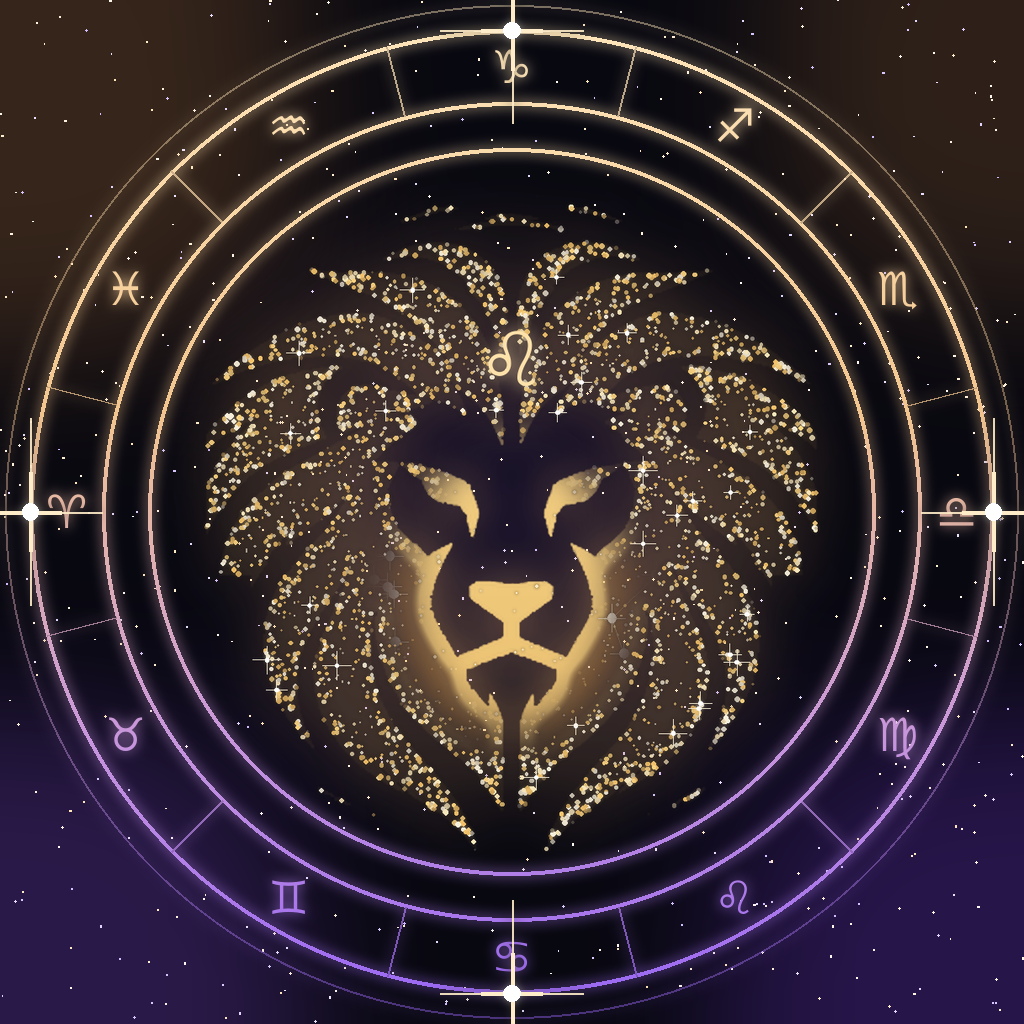
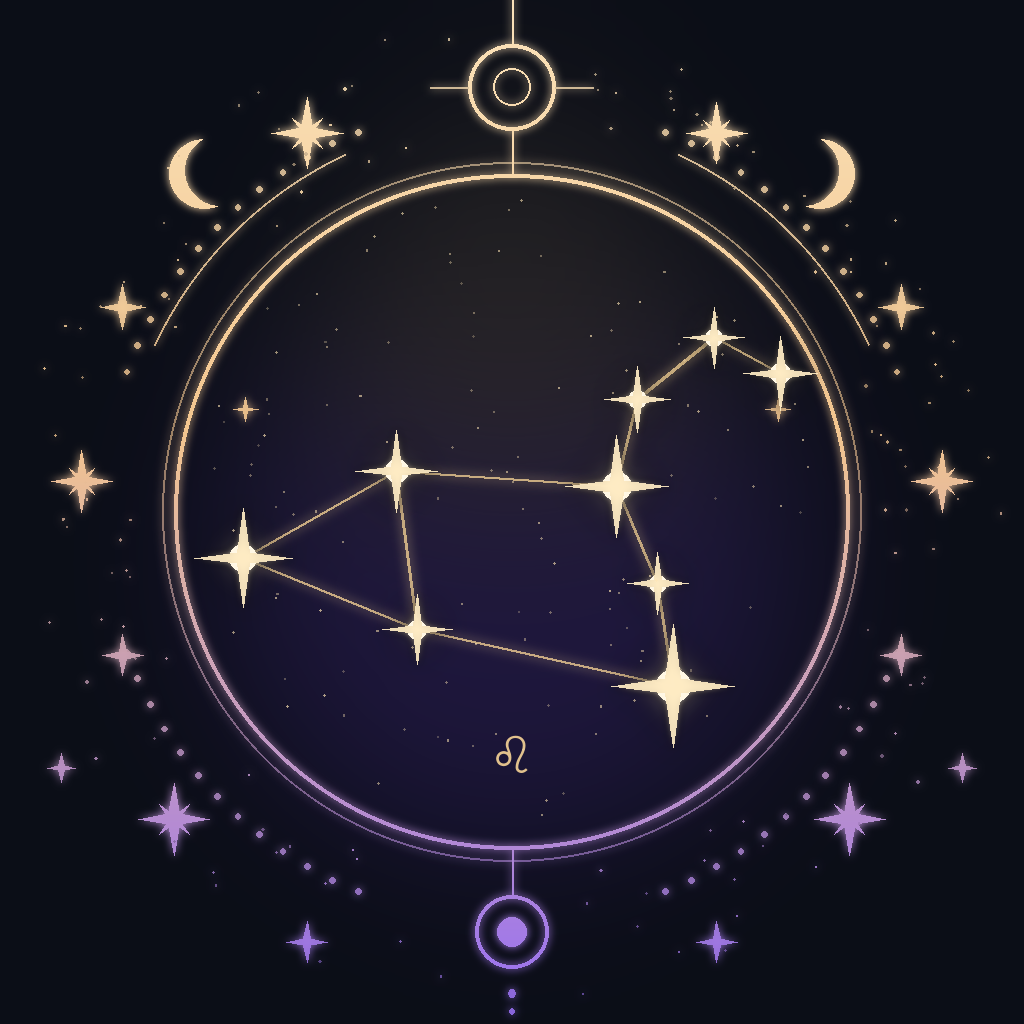
Leon Astral: ícone com a constelação de Leão em arte celeste (v11)
Claude-Session: https://claude.ai/code/session_015QtkNiigeZZHgyGsT8Acyk

diff --git a/leon-astral-app/tools/make_leo.py b/leon-astral-app/tools/make_leo.py
@@ -1,0 +1,110 @@
+"""Ícone Leon Astral v11: arte celeste em traço fino (referência do Carlos) com a constelação de Leão no lugar do leão.
+Regras: a constelação é só dourada; molduras e ornamentos em degradê dourado -> roxo."""
+from PIL import Image, ImageDraw, ImageFilter, ImageChops, ImageFont
+import math, random
+FONT='/usr/share/fonts/truetype/dejavu/DejaVuSans.ttf'
+
+def gradient(S, c_top=(251,227,187), c_mid=(243,198,143), c_bot=(150,110,245)):
+    g=Image.new('RGB',(S,S)); p=g.load()
+    for y in range(S):
+        t=y/S
+        if t<.42: k=t/.42; c=tuple(int(c_top[i]+(c_mid[i]-c_top[i])*k) for i in range(3))
+        else: k=(t-.42)/.58; c=tuple(int(c_mid[i]+(c_bot[i]-c_mid[i])*k) for i in range(3))
+        for x in range(S): p[x,y]=c
+    return g
+
+def sparkle(d, x, y, L, w, fill, thin=0.18):
+    # estrela de 4 pontas (losango alongado)
+    t=L*thin
+    d.polygon([(x,y-L),(x+t,y-t),(x+L,y),(x+t,y+t),(x,y+L),(x-t,y+t),(x-L,y),(x-t,y-t)],fill=fill)
+
+def star8(d,x,y,L,fill):
+    sparkle(d,x,y,L,0,fill,0.16)
+    l2=L*0.6; t=l2*0.16
+    d.polygon([(x-l2*.7,y-l2*.7),(x+t*.0,y-t*1.2),(x+l2*.7,y-l2*.7),(x+t*1.2,y),(x+l2*.7,y+l2*.7),(x,y+t*1.2),(x-l2*.7,y+l2*.7),(x-t*1.2,y)],fill=fill)
+
+def draw(S=1024, bg=True, seed=8):
+    W=S; cx=cy=S/2
+    img=Image.new('RGBA',(S,S),(11,14,23,255) if bg else (0,0,0,0))
+    if bg:
+        neb=Image.new('RGBA',(S,S),(0,0,0,0)); d=ImageDraw.Draw(neb)
+        d.ellipse((S*.15,S*.2,S*.85,S*.9),fill=(90,50,180,60)); d.ellipse((S*.3,S*.05,S*.7,S*.45),fill=(243,198,143,28))
+        img.alpha_composite(neb.filter(ImageFilter.GaussianBlur(S*.1)))
+    # ---------- ornamentos (máscara) em degradê dourado->roxo ----------
+    M=Image.new('L',(S,S),0); m=ImageDraw.Draw(M)
+    lw=max(2,int(S*.0042)); thin=max(1,int(S*.0022))
+    R=S*.33
+    m.ellipse((cx-R,cy-R,cx+R,cy+R),outline=255,width=lw)                 # círculo principal
+    m.ellipse((cx-R*1.035,cy-R*1.035,cx+R*1.035,cy+R*1.035),outline=150,width=thin)  # aro fino
+    # arcos pontilhados laterais
+    R2=S*.40
+    for ang in [a for a in range(200,341,4)]+[a for a in range(20,161,4)]:
+        if 70<ang<110 or 250<ang<290: continue
+        a=math.radians(ang); x=cx+R2*math.cos(a); y=cy+R2*math.sin(a); r=S*.0028
+        m.ellipse((x-r,y-r,x+r,y+r),fill=200)
+    # arcos contínuos finos (esq/dir)
+    m.arc((cx-S*.385,cy-S*.385,cx+S*.385,cy+S*.385),205,245,fill=210,width=thin)
+    m.arc((cx-S*.385,cy-S*.385,cx+S*.385,cy+S*.385),295,335,fill=210,width=thin)
+    # ornamento do topo: círculo duplo + haste até o círculo principal
+    ty=cy-R-S*.085; r1,r2=S*.042,S*.018
+    m.ellipse((cx-r1,ty-r1,cx+r1,ty+r1),outline=255,width=lw); m.ellipse((cx-r2,ty-r2,cx+r2,ty+r2),outline=255,width=thin)
+    m.line((cx,ty-r1-S*.05,cx,ty-r1),fill=255,width=thin); m.line((cx,ty+r1,cx,cy-R),fill=255,width=thin)
+    m.line((cx-S*.08,ty,cx-r1,ty),fill=200,width=thin); m.line((cx+r1,ty,cx+S*.08,ty),fill=200,width=thin)
+    # ornamento de baixo
+    by=cy+R+S*.08; m.ellipse((cx-r1*.85,by-r1*.85,cx+r1*.85,by+r1*.85),outline=255,width=lw); m.ellipse((cx-r2*.8,by-r2*.8,cx+r2*.8,by+r2*.8),fill=255)
+    m.line((cx,cy+R,cx,by-r1*.85),fill=255,width=thin)
+    for k in range(1,4):
+        y=by+r1+S*.018*k; r=S*.004*(1.2-k*.25); m.ellipse((cx-r,y-r,cx+r,y+r),fill=220)
+    # luas crescentes
+    for sx,flip in [(.2,1),(.8,-1)]:
+        x,y=S*sx,S*.17; rr=S*.034
+        m.ellipse((x-rr,y-rr,x+rr,y+rr),fill=255); m.ellipse((x-rr+flip*rr*.45,y-rr-rr*.1,x+rr+flip*rr*.45,y+rr-rr*.1),fill=0)
+    # estrelas decorativas ao redor
+    random.seed(seed)
+    deco=[(.30,.13,.035),(.70,.13,.03),(.12,.30,.022),(.88,.30,.022),(.08,.47,.03),(.92,.47,.03),(.12,.64,.02),(.88,.64,.02),
+          (.17,.80,.035),(.83,.80,.035),(.30,.92,.02),(.70,.92,.02),(.06,.75,.014),(.94,.75,.014),(.24,.40,.012),(.76,.40,.012)]
+    for x,y,L in deco:
+        if L>=.03: star8(m,S*x,S*y,S*L,255)
+        else: sparkle(m,S*x,S*y,S*L,0,230)
+    for _ in range(int(S*.14)):  # poeira estelar
+        a=random.random()*2*math.pi; rr=S*(.36+random.random()*.12); x=cx+rr*math.cos(a); y=cy+rr*math.sin(a)
+        if abs(x-cx)<S*.06 and (y<cy-R or y>cy+R): continue
+        r=random.choice([.6,.9,1.2])*S/1024; m.ellipse((x-r,y-r,x+r,y+r),fill=random.randint(120,230))
+    G=gradient(S)
+    orn=Image.merge('RGBA',(*G.split(),M))
+    img.alpha_composite(orn.filter(ImageFilter.GaussianBlur(S*.004))); img.alpha_composite(orn)
+    # ---------- constelação de Leão (dourada) ----------
+    P={'reg':(.665,.640),'eta':(.650,.540),'alg':(.610,.445),'zet':(.630,.360),'mu':(.705,.300),'eps':(.770,.335),
+       'zos':(.395,.430),'the':(.415,.585),'den':(.245,.515)}
+    # centraliza a constelação no círculo
+    xs=[v[0] for v in P.values()]; ys=[v[1] for v in P.values()]
+    ox=.5-(min(xs)+max(xs))/2; oy=.5-(min(ys)+max(ys))/2
+    P={k:((x+ox)*S,(y+oy)*S) for k,(x,y) in P.items()}
+    lines=[('reg','eta'),('eta','alg'),('alg','zet'),('zet','mu'),('mu','eps'),('alg','zos'),('zos','den'),('den','the'),('the','zos'),('the','reg')]
+    L=Image.new('L',(S,S),0); ld=ImageDraw.Draw(L)
+    for a,b in lines: ld.line((P[a],P[b]),fill=255,width=max(2,int(S*.0035)))
+    gold=Image.new('RGB',(S,S),(247,212,150))
+    ln=Image.merge('RGBA',(*gold.split(),Image.eval(L,lambda v:int(v*.75))))
+    img.alpha_composite(ln.filter(ImageFilter.GaussianBlur(S*.005))); img.alpha_composite(ln)
+    st=Image.new('RGBA',(S,S),(0,0,0,0)); sd=ImageDraw.Draw(st)
+    size={'reg':1.5,'den':1.2,'alg':1.25,'zos':1.0,'the':.85,'eta':.75,'zet':.8,'mu':.75,'eps':.9}
+    for k,(x,y) in P.items():
+        s=size[k]; r=S*.011*s
+        sd.ellipse((x-r,y-r,x+r,y+r),fill=(255,247,228,255))
+        sparkle(sd,x,y,S*.04*s,0,(255,236,196,235),0.12)
+    img.alpha_composite(st.filter(ImageFilter.GaussianBlur(S*.016))); img.alpha_composite(st.filter(ImageFilter.GaussianBlur(S*.004))); img.alpha_composite(st)
+    # nome discreto e símbolo dentro do círculo
+    f=ImageFont.truetype(FONT,int(S*.05))
+    gm=Image.new('L',(S,S),0); ImageDraw.Draw(gm).text((cx,cy+R*.72),'♌',font=f,anchor='mm',fill=230)
+    img.alpha_composite(Image.merge('RGBA',(*gold.split(),gm)))
+    # poeira dourada dentro do círculo (bem leve)
+    dust=Image.new('RGBA',(S,S),(0,0,0,0)); dd=ImageDraw.Draw(dust)
+    for _ in range(int(S*.12)):
+        a=random.random()*2*math.pi; rr=R*.95*math.sqrt(random.random()); x=cx+rr*math.cos(a); y=cy+rr*math.sin(a)
+        r=random.choice([.5,.7,1.0])*S/1024; dd.ellipse((x-r,y-r,x+r,y+r),fill=(255,230,180,random.randint(60,170)))
+    img.alpha_composite(dust)
+    return img
+
+if __name__=='__main__':
+    draw(1024).save('/home/claude/icon_v11_1024.png')
+    draw(1024,bg=False).save('/home/claude/icon_v11_fg.png')
